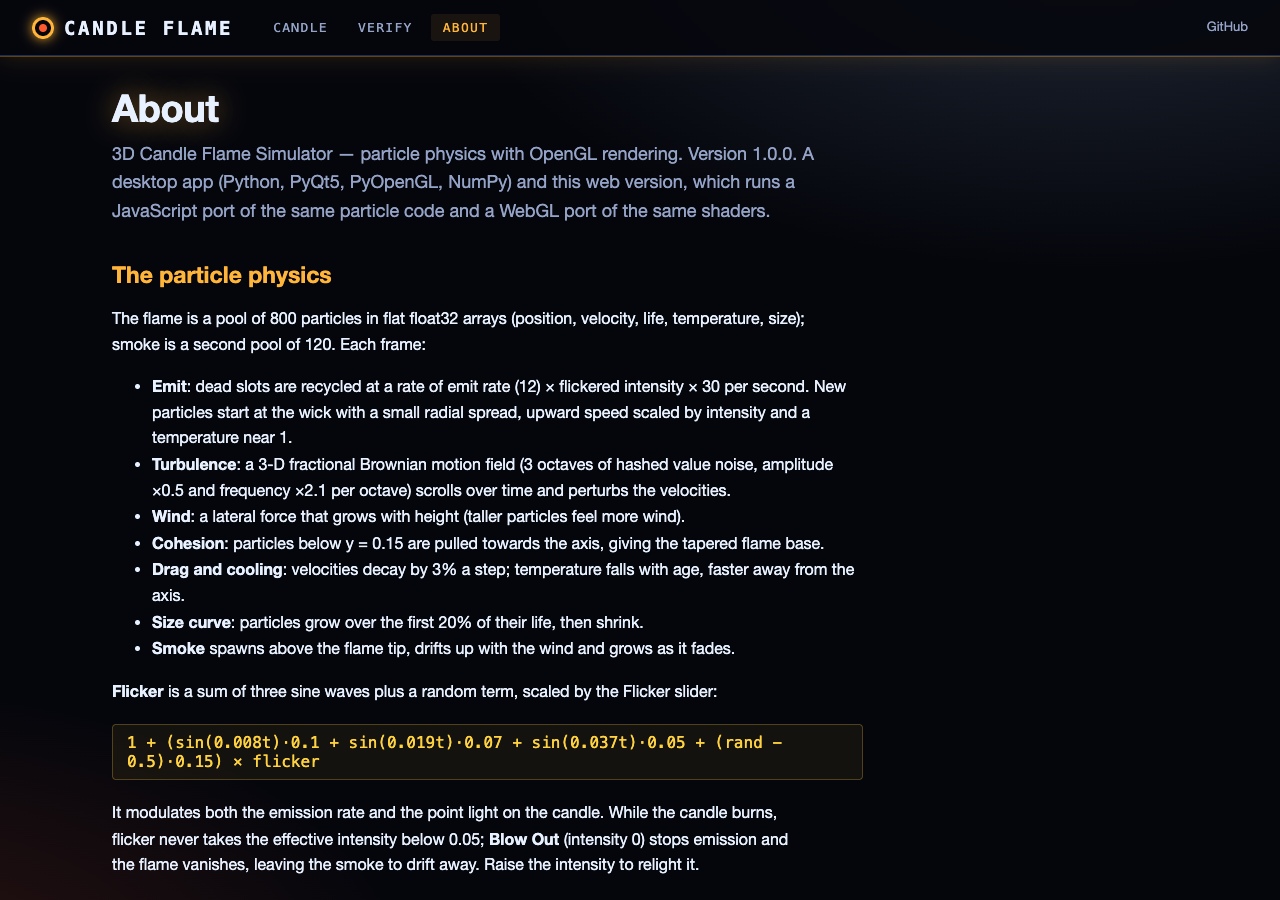
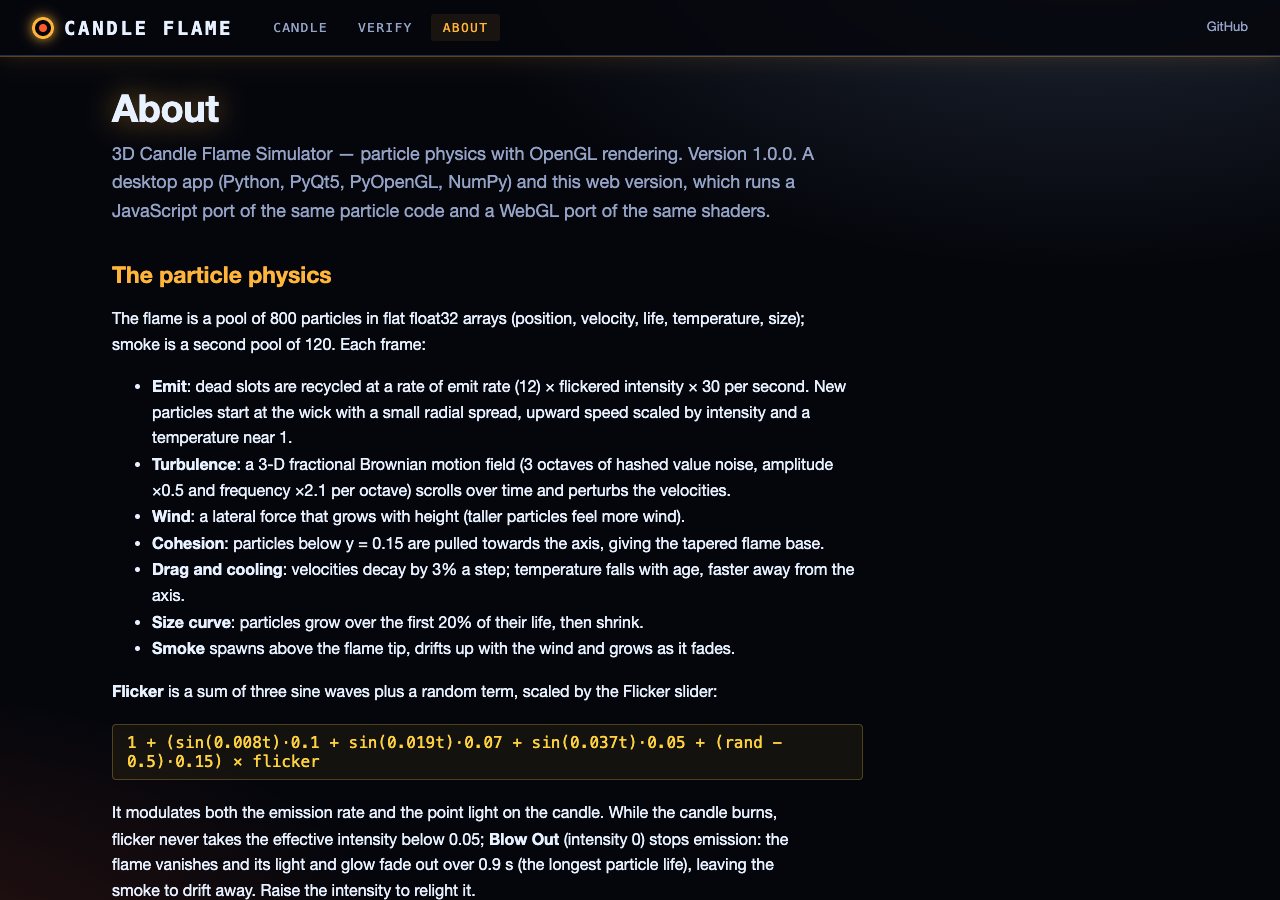
Update session log for the light fade fix; refresh web screenshots

Changed region(s): [[0.0938, 0.9333, 0.625, 1.0]]

diff --git a/SESSION_LOG.md b/SESSION_LOG.md
@@ -46,3 +46,17 @@ Each fix has its own "Fix ..." commit and a regression test that failed before t
 Checks re-run: `pytest tests` 36 passed (`test_web.py` 15); node 11 + 7 passed; screenshots.py static (6 routes) and
 live server (4 routes) all ok with no phone overflow; README shots regenerated. Every file I added is under 500
 lines; the existing `jsx/candle_flame.jsx` (979 lines, an unused prototype) was already over the limit.
+
+## 2026-11-11 -- Light and glow fade with the flame (approved by George)
+
+- `ddaf872` **Fix candle light and glow staying on after Blow Out.** `CandleSim` keeps a light level from 0 to 1. It
+  ramps linearly to 0 over `LIGHT_FADE_S = 0.9` s (the longest flame-particle life) after Blow Out, and back to 1 on
+  relight. `light_intensity(eff) = light * (1 + eff*1.5)` is exactly the old value while lit, so the lit look is
+  unchanged. `canvas.paintGL` and the web view pass it to the renderer, and the glow alpha (`min(0.2, light*0.06)`)
+  follows. Blown out, only the ambient light remains. The JS engine has the same logic; reference runs now record the
+  light, the fixtures were regenerated, and Python and JS are still bit-identical (the "windy" run ends at light 0).
+- Regression tests failed first: `tests/test_light_fade.py` (3, including `CandleCanvas.paintGL` with a stubbed
+  renderer, offscreen) and a new node test.
+- Checks: `pytest tests` 39 passed (`test_web.py` 15); node 12 + 7 passed; screenshots.py static (6 routes) and live
+  server (4 routes) all ok with no phone overflow; README shots regenerated. A Playwright check confirmed a dark scene
+  after Blow Out and the normal look on relight.
